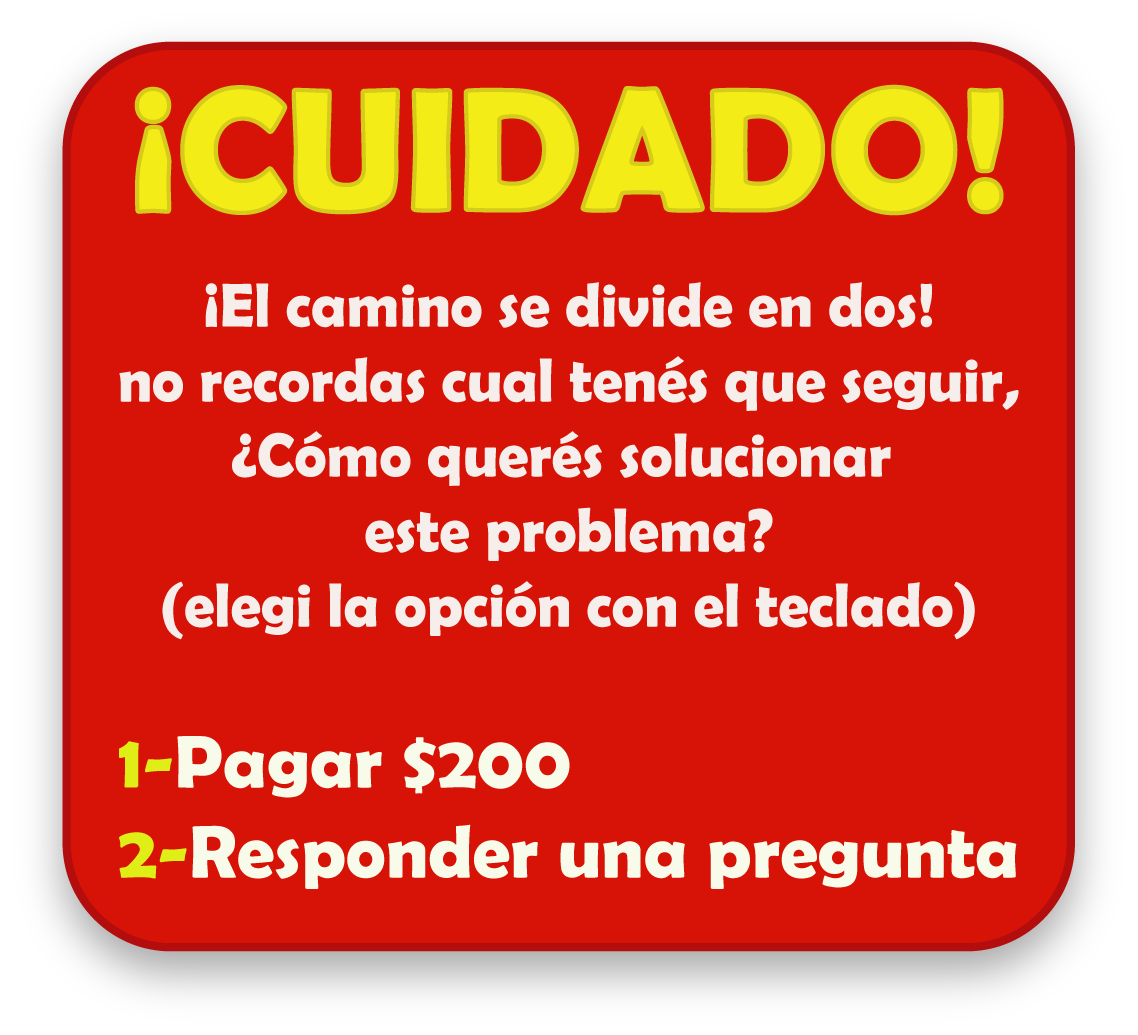
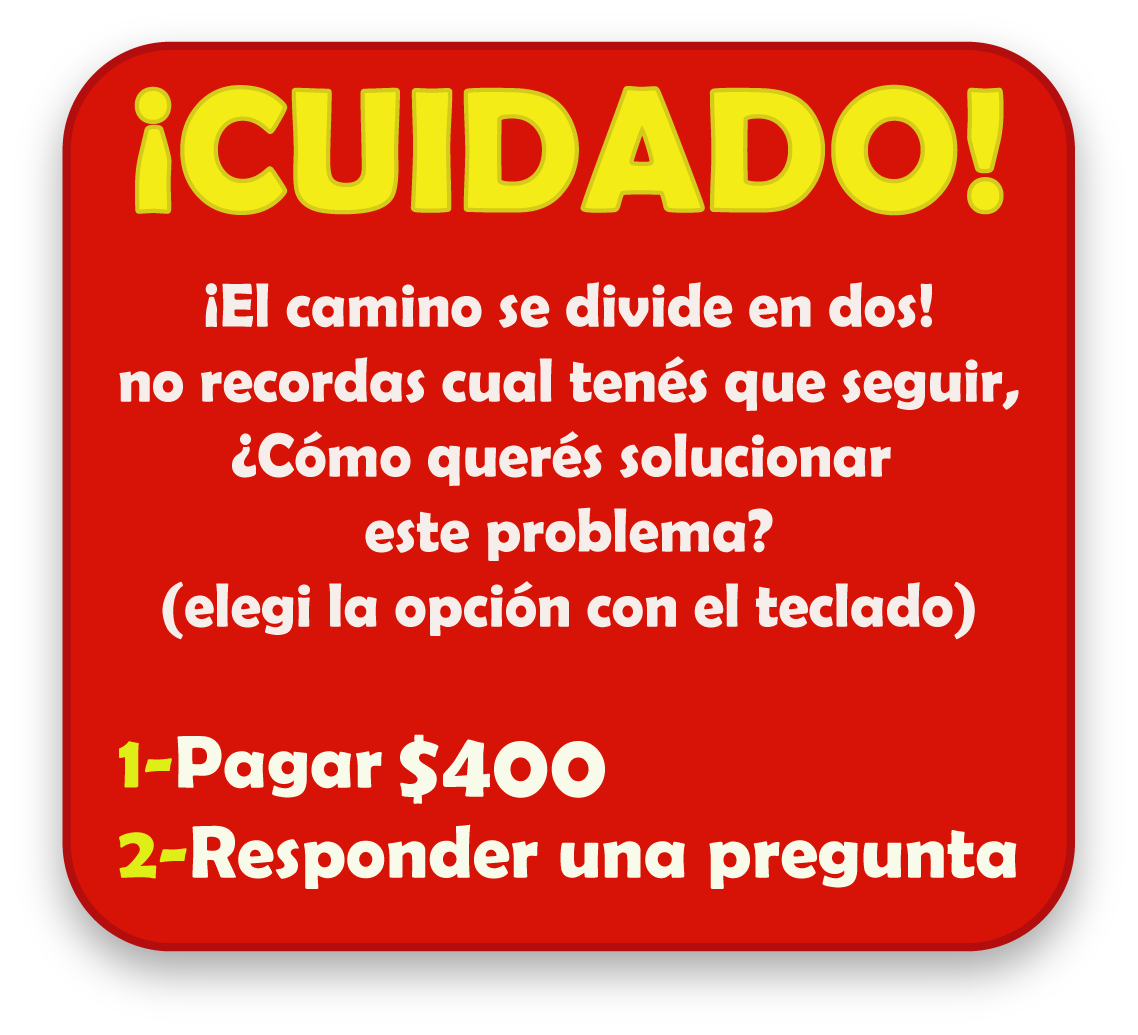
imagenes obstaculos cambiadas

Changed region(s): [[0.3383, 0.7111, 0.5536, 0.7729]]

diff --git a/src/scenes/Obstaculo3.js b/src/scenes/Obstaculo3.js
@@ -67,7 +67,7 @@ export default class Obstaculo3 extends Phaser.Scene {
     }
   
     update() {
-      if (this.input.keyboard.addKey(Phaser.Input.Keyboard.KeyCodes.NUMPAD_ONE).isDown && this.contadorMonedas >= 200) {
+      if (this.input.keyboard.addKey(Phaser.Input.Keyboard.KeyCodes.NUMPAD_ONE).isDown && this.contadorMonedas >= 600) {
         this.contadorMonedas -= 200;
         this.textoMoneda.setText(this.contadorMonedas);
         this.scene.start("victoriajuego", {
@@ -75,7 +75,7 @@ export default class Obstaculo3 extends Phaser.Scene {
           contadorKm: this.contadorKm,
           contadorVidas: this.contadorVidas,
         });
-      } else if (this.input.keyboard.addKey(Phaser.Input.Keyboard.KeyCodes.NUMPAD_ONE).isDown && this.contadorMonedas <= 200 && !this.teclaUno && this.contadorVidas > 1) {
+      } else if (this.input.keyboard.addKey(Phaser.Input.Keyboard.KeyCodes.NUMPAD_ONE).isDown && this.contadorMonedas <= 600 && !this.teclaUno && this.contadorVidas > 1) {
         this.teclaUno = true;
         this.textoTronco.setVisible(false);
         this.add.image(400, 200, "monedasInsuficientes").setScale(0.24);

diff --git a/src/scenes/Obstaculo2.js b/src/scenes/Obstaculo2.js
@@ -67,7 +67,7 @@ export default class Obstaculo2 extends Phaser.Scene {
     }
   
     update() {
-      if (this.input.keyboard.addKey(Phaser.Input.Keyboard.KeyCodes.NUMPAD_ONE).isDown && this.contadorMonedas >= 200) {
+      if (this.input.keyboard.addKey(Phaser.Input.Keyboard.KeyCodes.NUMPAD_ONE).isDown && this.contadorMonedas >= 400) {
         this.contadorMonedas -= 200;
         this.textoMoneda.setText(this.contadorMonedas);
         this.scene.start("transicion4", {
@@ -75,7 +75,7 @@ export default class Obstaculo2 extends Phaser.Scene {
           contadorKm: this.contadorKm,
           contadorVidas: this.contadorVidas,
         });
-      } else if (this.input.keyboard.addKey(Phaser.Input.Keyboard.KeyCodes.NUMPAD_ONE).isDown && this.contadorMonedas <= 200 && !this.teclaUno) {
+      } else if (this.input.keyboard.addKey(Phaser.Input.Keyboard.KeyCodes.NUMPAD_ONE).isDown && this.contadorMonedas <= 400 && !this.teclaUno) {
         this.teclaUno = true;
         this.textoTronco.setVisible(false);
         this.add.image(400, 200, "monedasInsuficientes").setScale(0.24);

diff --git a/src/scenes/Precargas.js b/src/scenes/Precargas.js
@@ -67,7 +67,7 @@ export default class Precargas extends Phaser.Scene {
         frameRate: 2,
         repeat: -1,
       });
-      this.scene.start("obstaculo3");
+      this.scene.start("obstaculo2");
       
     }
     upload(){}
